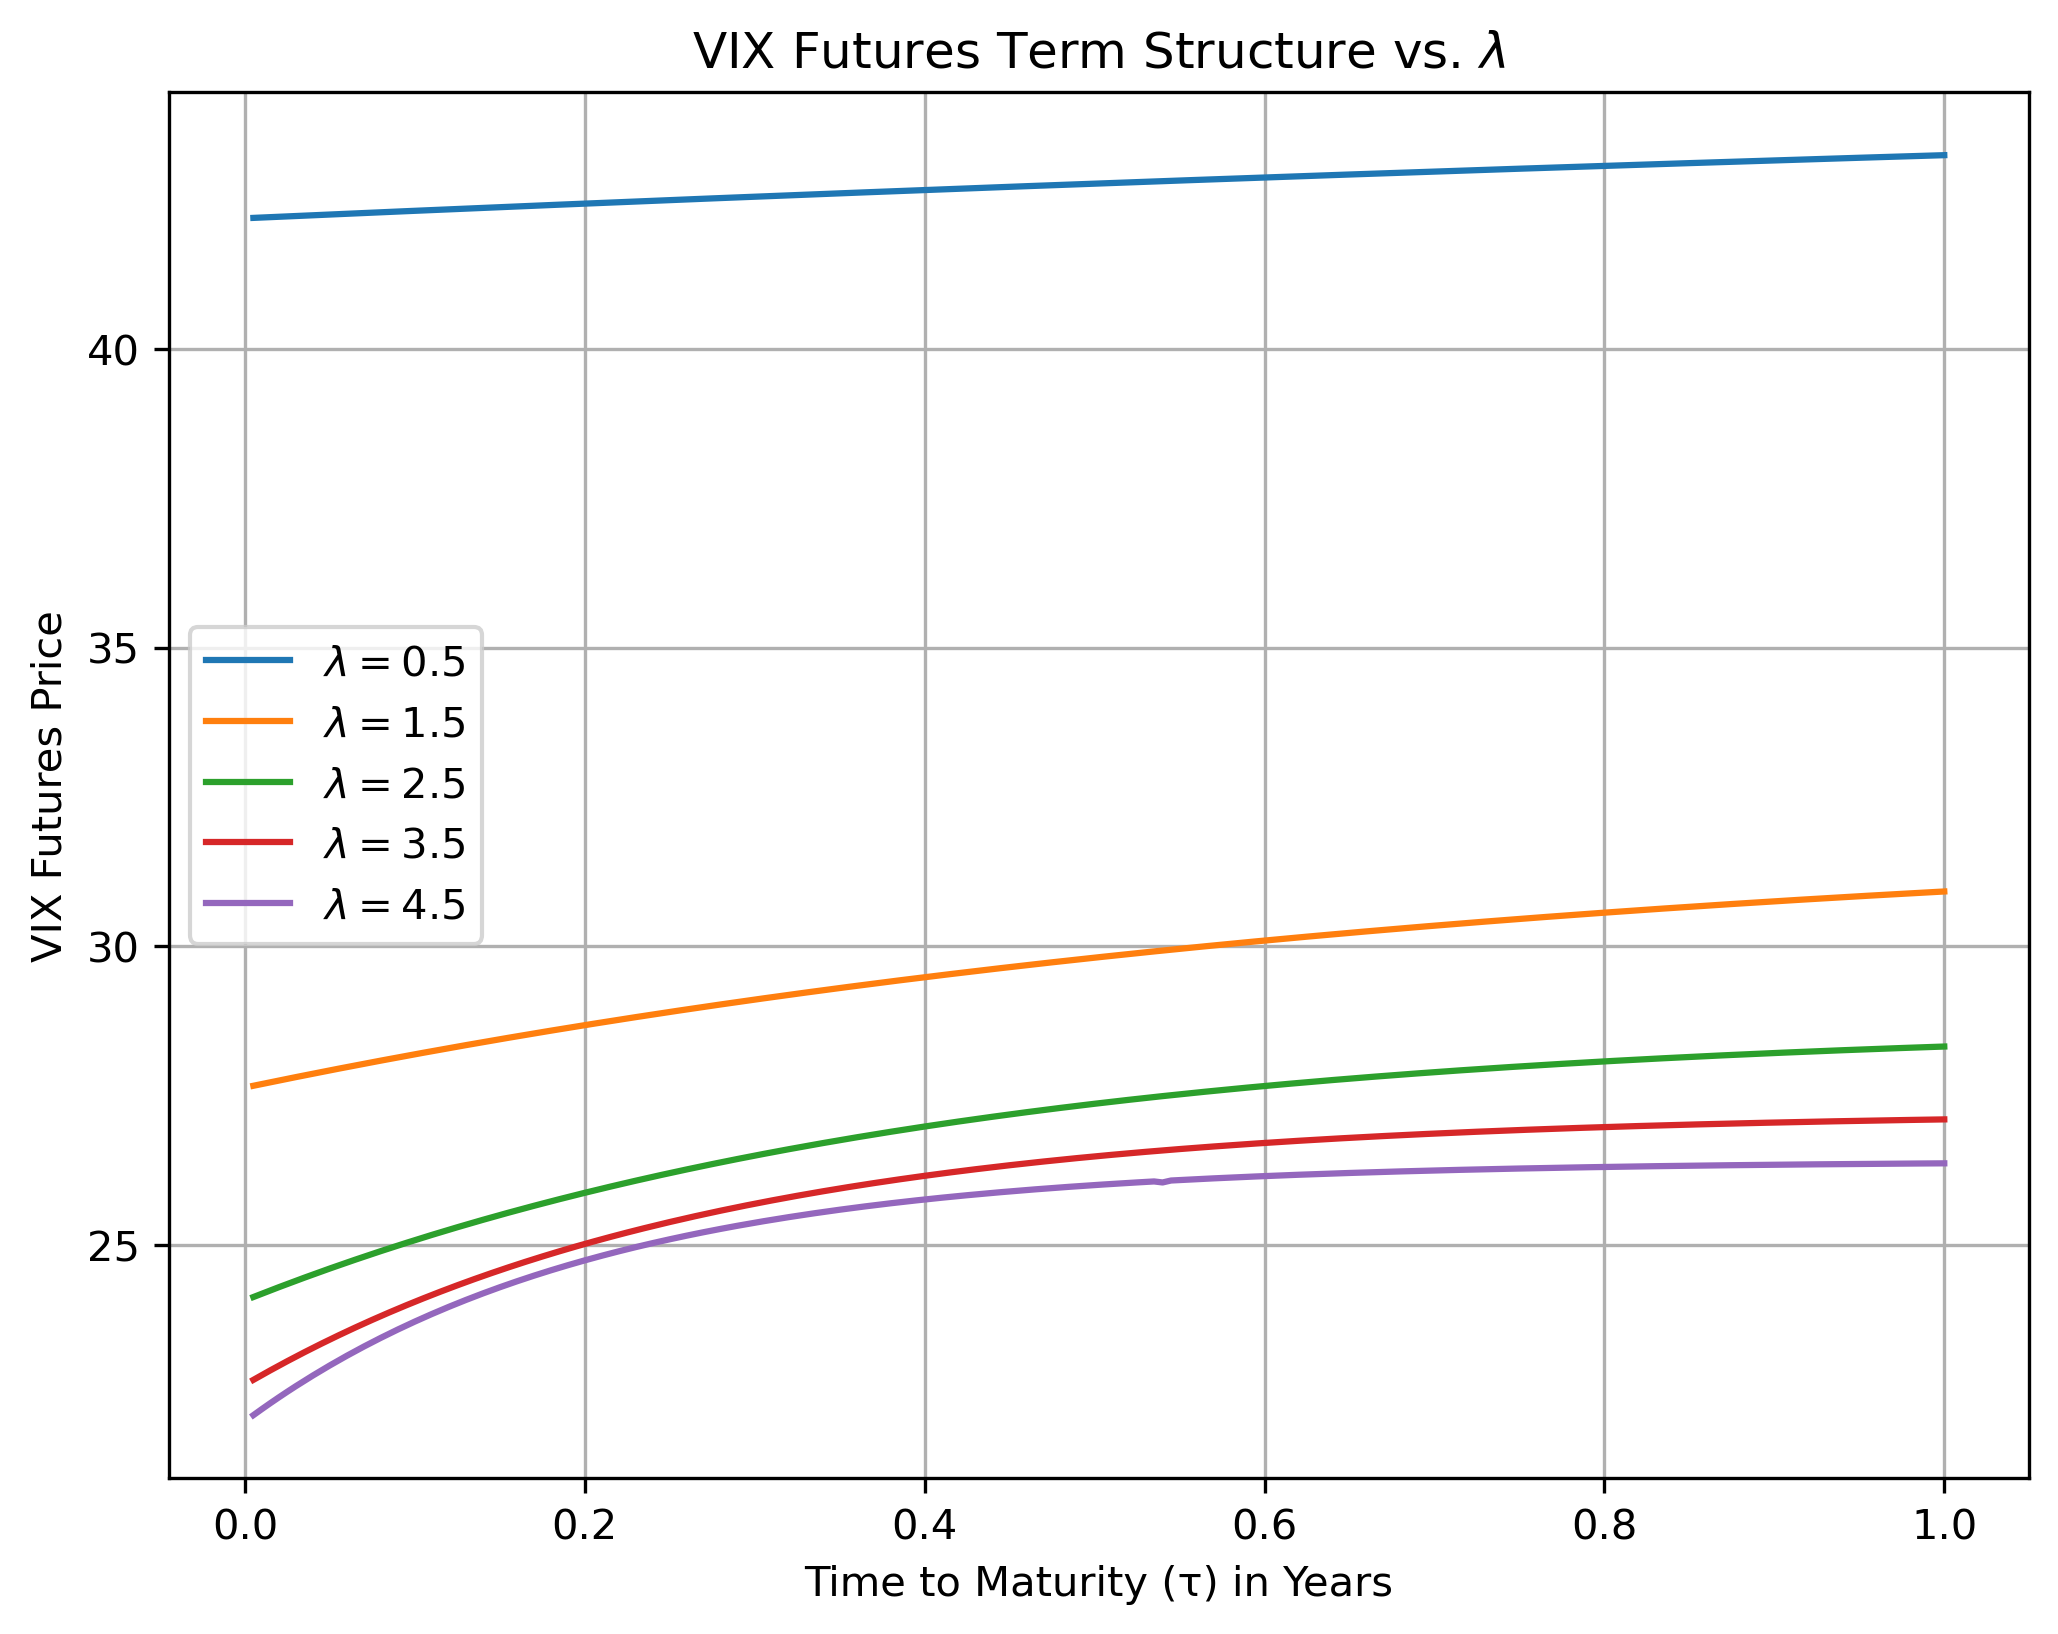
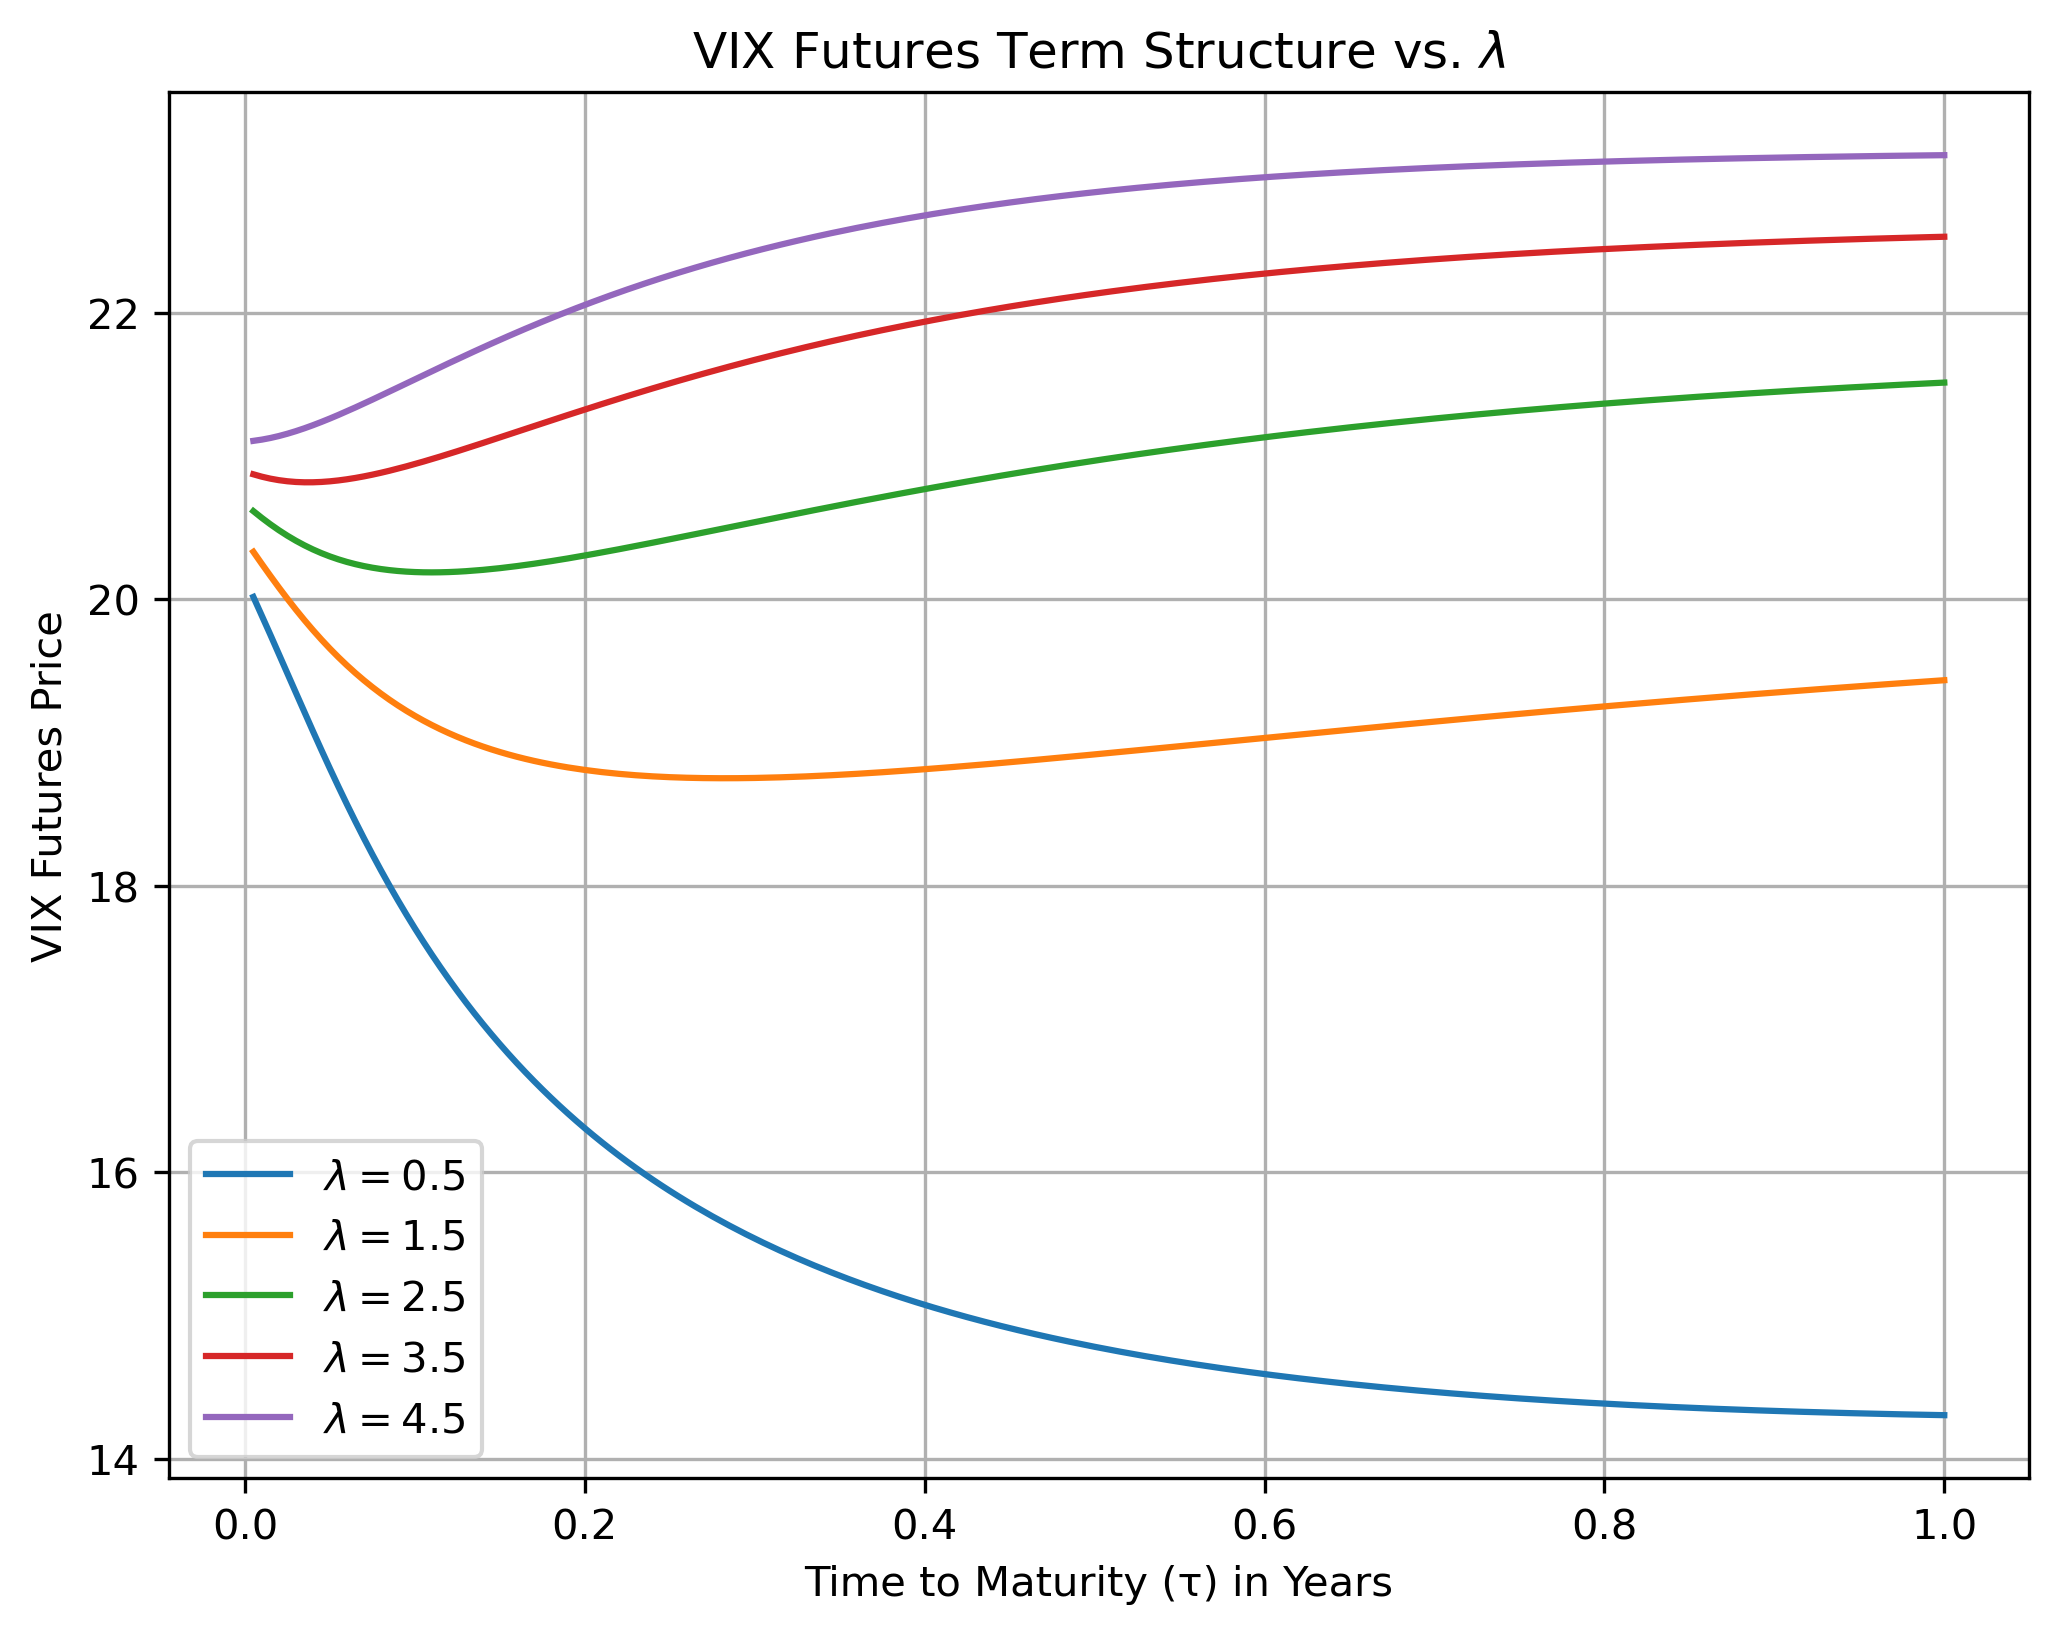
Fix d_func and c_func calculations for improved accuracy in VIX futures pricing

diff --git a/src/vix_calculations.py b/src/vix_calculations.py
@@ -14,23 +14,25 @@ def d_func(tau: float, u: float, lambda_p: float, xi_p: float) -> float:
     """
     This is the formula for d(T-t,u)
     """
-    val = 2 * lambda_p - u * xi_p**2
-    denominator = u * xi_p**2 + val * np.exp(lambda_p * tau)
+    val = 2 * lambda_p + u * xi_p**2
+    denominator = val * np.exp(lambda_p * tau) - u * xi_p**2
     return (2 * lambda_p * u) / denominator
 
 def c_func(tau: float, u: float, lambda_p: float, theta_p: float, xi_p: float) -> float:
     """
     This is the formula for c(T-t,u)
     """
-    val = 2 * lambda_p - u * xi_p**2
+    val = 2 * lambda_p + u * xi_p**2
     
     # If val is non-positive, the formula is not well-defined
     if val <= 0:
         return np.inf
 
     # log_numerator = np.exp(lambda_p * tau) * val
-    log_numerator = np.exp(lambda_p * tau) * (2 * lambda_p)
-    log_denominator = (u * xi_p**2 + val * np.exp(lambda_p * tau))
+    # log_numerator = np.exp(lambda_p * tau) * (2 * lambda_p)
+    # log_denominator = (u * xi_p**2 + val * np.exp(lambda_p * tau))
+    log_numerator = val - u * xi_p**2 * np.exp(- lambda_p * tau)
+    log_denominator = 2 * lambda_p
     
     # Handle potential division by zero or log of non-positive number
     if log_denominator <= 0:
